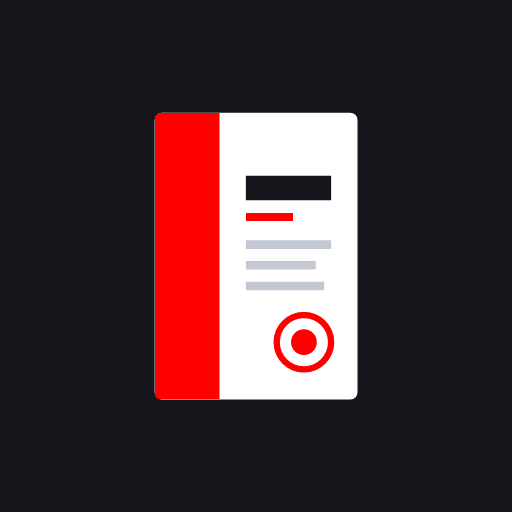
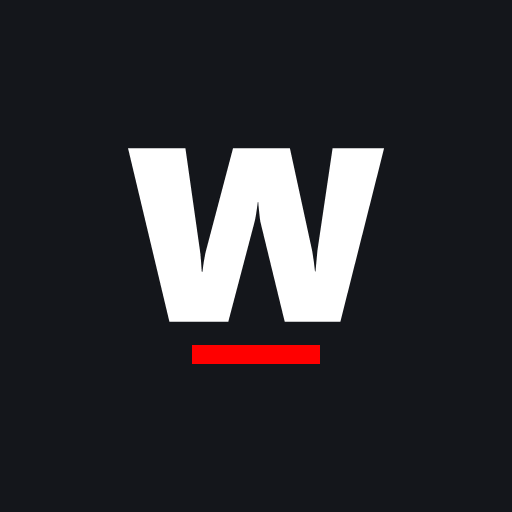
WarrantyX: uygulama simgesi W harfi
Koyu zeminde ağır beyaz W, altında kapaktaki gibi kırmızı çizgi. P&PX'in simgesinden ayrı durur.

Changed region(s): [[0.25, 0.2188, 0.75, 0.7812]]

diff --git a/README.md b/README.md
@@ -112,7 +112,7 @@ Seri No değişince dosya da yeni adla yazılır, eskisi silinir. Eski sürümle
 | `tools/gomulu-uret.js` | `assets/gomulu-*.js` üreticisi |
 | `manifest.webmanifest` | Uygulama bilgisi: ad, simgeler, kendi penceresi, Yeni Garanti Belgesi kısayolu |
 | `sw.js` | Uygulama katmanı (service worker): açılışta son sürüm, internetsiz açılış |
-| `assets/simge/` | Uygulama simgeleri (kırmızı bantlı garanti belgesi kapağı); `tools/simge-uret.ps1` üretir |
+| `assets/simge/` | Uygulama simgeleri (koyu zeminde ağır beyaz W, altında kırmızı çizgi); `tools/simge-uret.ps1` üretir |
 | `tools/yayin-hazirla.js` | Yayın sitesini hazırlar: dosyaları kopyalar, içerik özetlerini, sürüm damgasını, `sw.js` dosya listesini ve `surum.json` yazar |
 | `.github/workflows/yayin.yml` | `main` dalına gönderimde test ve GitHub Pages yayını |
 | `test/` | Birim ve veritabanı testleri (sahte GitHub ile) |
